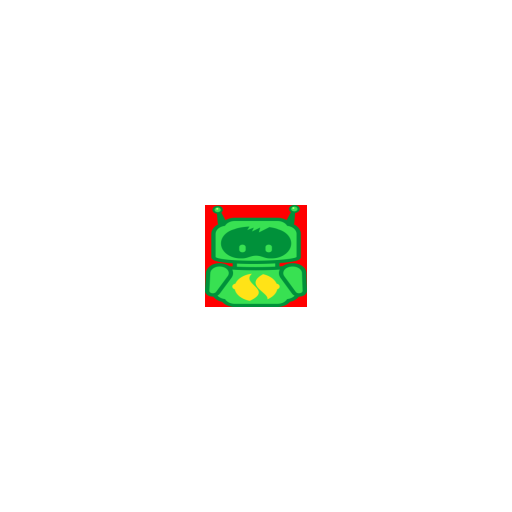
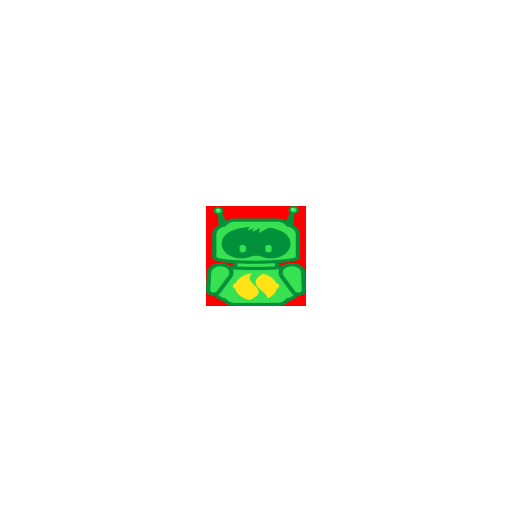
:bug:fixed renderMatrix bug

diff --git a/examples/test_renderMatrix.html b/examples/test_renderMatrix.html
@@ -1,0 +1,38 @@
+<!DOCTYPE html>
+<html>
+  <head>
+    <meta http-equiv="Content-Type" content="text/html;charset=UTF-8" />
+    <script src="/js/spritejs.js"></script>
+    <style>
+      html,
+      body {
+        width: 100%;
+        height: 100%;
+        padding: 0;
+        margin: 0;
+      }
+      #canvas-wrap {
+        height: 100%;
+        width: 100%;
+      }
+    </style>
+  </head>
+  <body>
+    <div id="canvas-wrap"></div> 
+    <script>
+      const { Scene, Sprite, Group } = spritejs;
+      let container = document.querySelector('#canvas-wrap')
+      const scene = new Scene({container,displayRatio: window.devicePixelRatio})
+      const layer = scene.layer()
+      let group_inner = new Group()
+      group_inner.attr({bgcolor: '#ff0',pos:[100,100],size:[200,200]})
+      let group_outer = new Group()
+      group_outer.attr({bgcolor: '#eee',pos:[100,100],size:[400,400]})
+      let sprite = new Sprite()
+      sprite.attr({pos:[0,0],bgcolor:'#00f',size:[20,20]})
+      group_outer.append(group_inner)
+      group_inner.append(sprite)
+      layer.append(group_outer)
+    </script>
+  </body>
+</html>

diff --git a/src/node/node.js b/src/node/node.js
@@ -80,10 +80,9 @@ export default class Node {
     const {x, y} = this.attributes;
     m[4] += x;
     m[5] += y;
-    let parent = this.parent;
-    while(parent && parent.renderMatrix) {
+    const parent = this.parent;
+    if(parent && parent.renderMatrix) {
       m = mat2d(parent.renderMatrix) * mat2d(m);
-      parent = parent.parent;
     }
     return m;
   }

diff --git a/src/polyfill/node-canvas.js b/src/polyfill/node-canvas.js
@@ -16,7 +16,7 @@ global.cancelAnimationFrame = (id) => {
   return clearTimeout(id);
 };
 
-const {createCanvas, Image} = require('canvas');
+const {createCanvas, Image} = require('node-canvas-webgl');
 
 global.createCanvas = createCanvas;
 global.Image = Image;

diff --git a/lib/polyfill/node-canvas.js b/lib/polyfill/node-canvas.js
@@ -42,7 +42,7 @@ global.cancelAnimationFrame = function (id) {
   return clearTimeout(id);
 };
 
-var _require = require('canvas'),
+var _require = require('node-canvas-webgl'),
     createCanvas = _require.createCanvas,
     Image = _require.Image;
 

diff --git a/docs/zh-cn/changelog.md b/docs/zh-cn/changelog.md
@@ -1,5 +1,9 @@
 ## 更新日志
 
+#### 【2019-11-26】 v0.1.6
+
+- 修复了renderMatrix在多级group下的bug
+
 #### 【2019-11-26】 v0.1.5
 
 - 修复了removeEventListener的第三个参数缺省报错的bug
